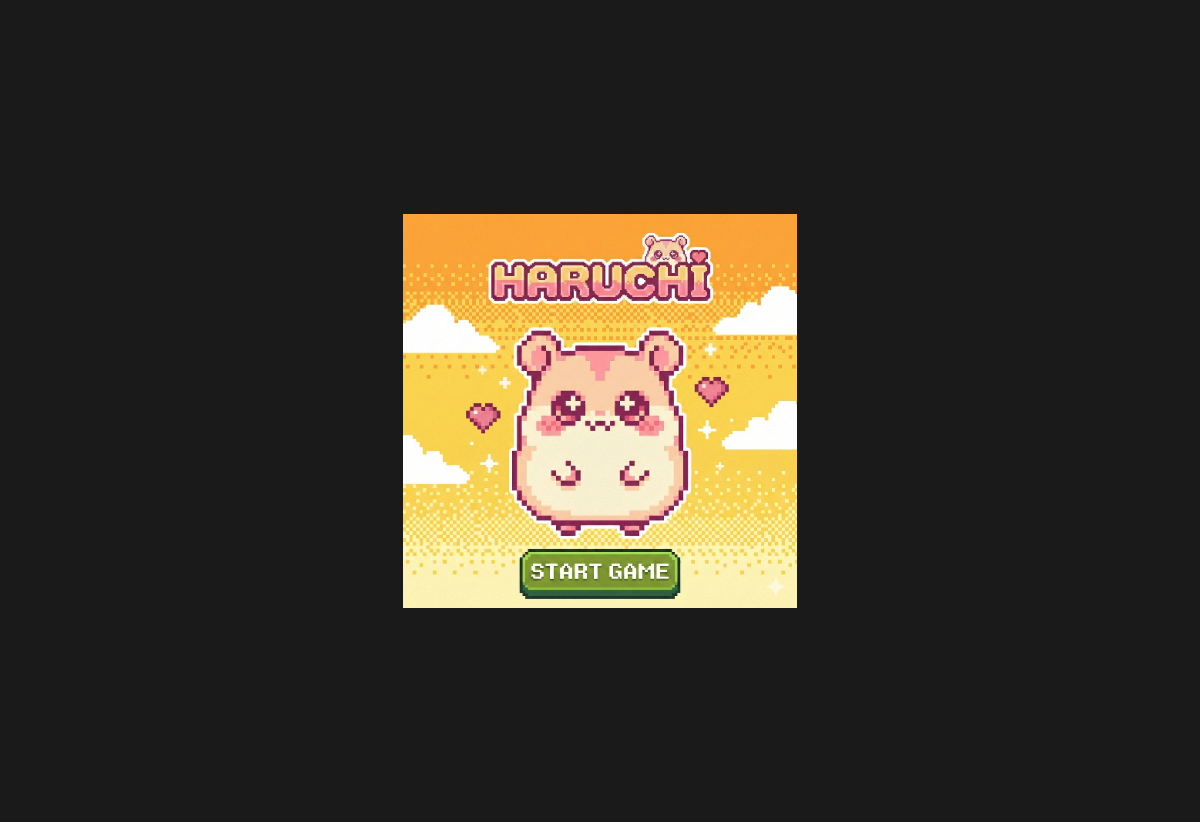
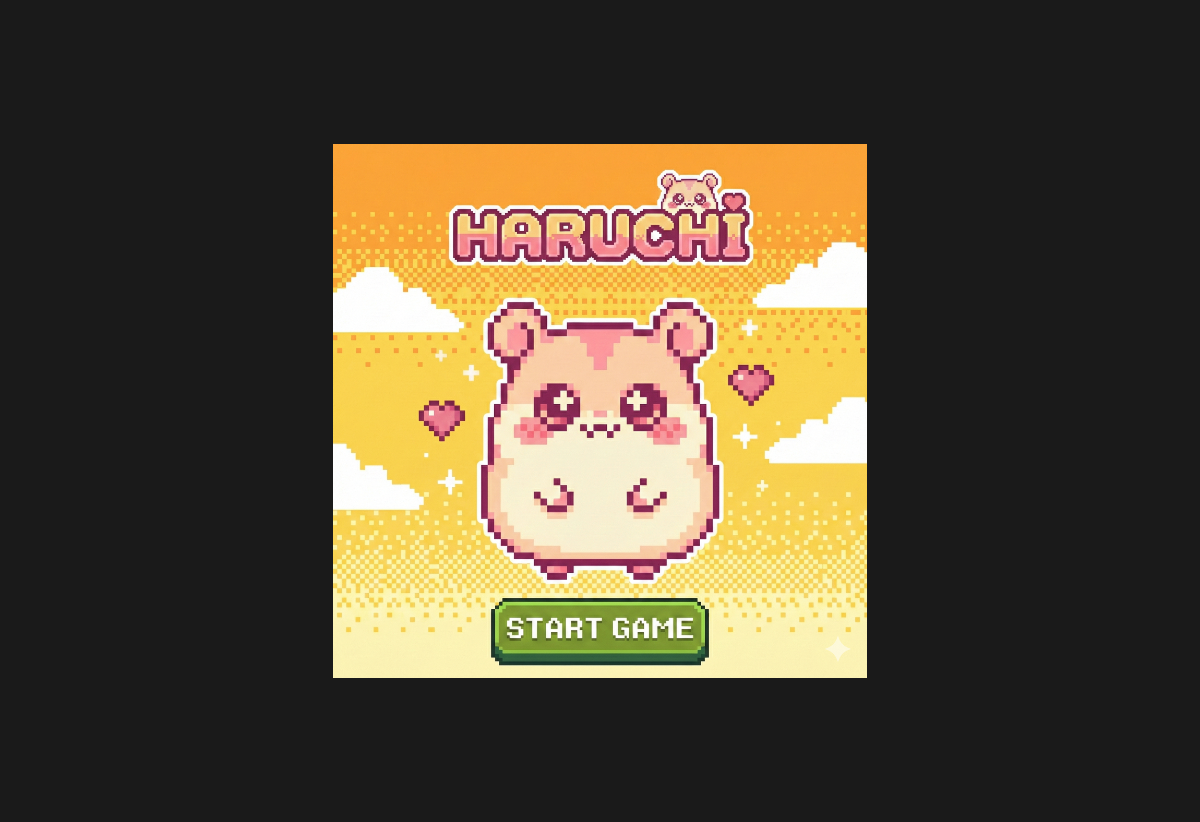
15

Changed region(s): [[0.2775, 0.1521, 0.74, 0.8516]]

diff --git a/tama/thumbnail_resize.html b/tama/thumbnail_resize.html
@@ -19,7 +19,7 @@
 </head>
 <body>
   <h1>OG 썸네일 생성기</h1>
-  <p>카톡 링크 미리보기용: 1200×822 비율, 내용 48% 크기로 축소 (HARUCHI·햄스터·START GAME 전체 노출)</p>
+  <p>카톡 링크 미리보기용: 1200×822 비율, 내용 65% 크기</p>
   <div class="btn-row">
     <div>
       <div class="step">1단계</div>
@@ -36,7 +36,7 @@
 
   <script>
     const TARGET_W = 1200, TARGET_H = 822;  // 카톡 미리보기 비율 1.46:1
-    const PADDING = 0.48;  // 48% 안에 내용 → 위아래 전체 보이도록
+    const PADDING = 0.65;  // 65% - 이미지 더 크게 (잘리면 값 낮추기)
     let hasImage = false;
 
     function draw(img) {
